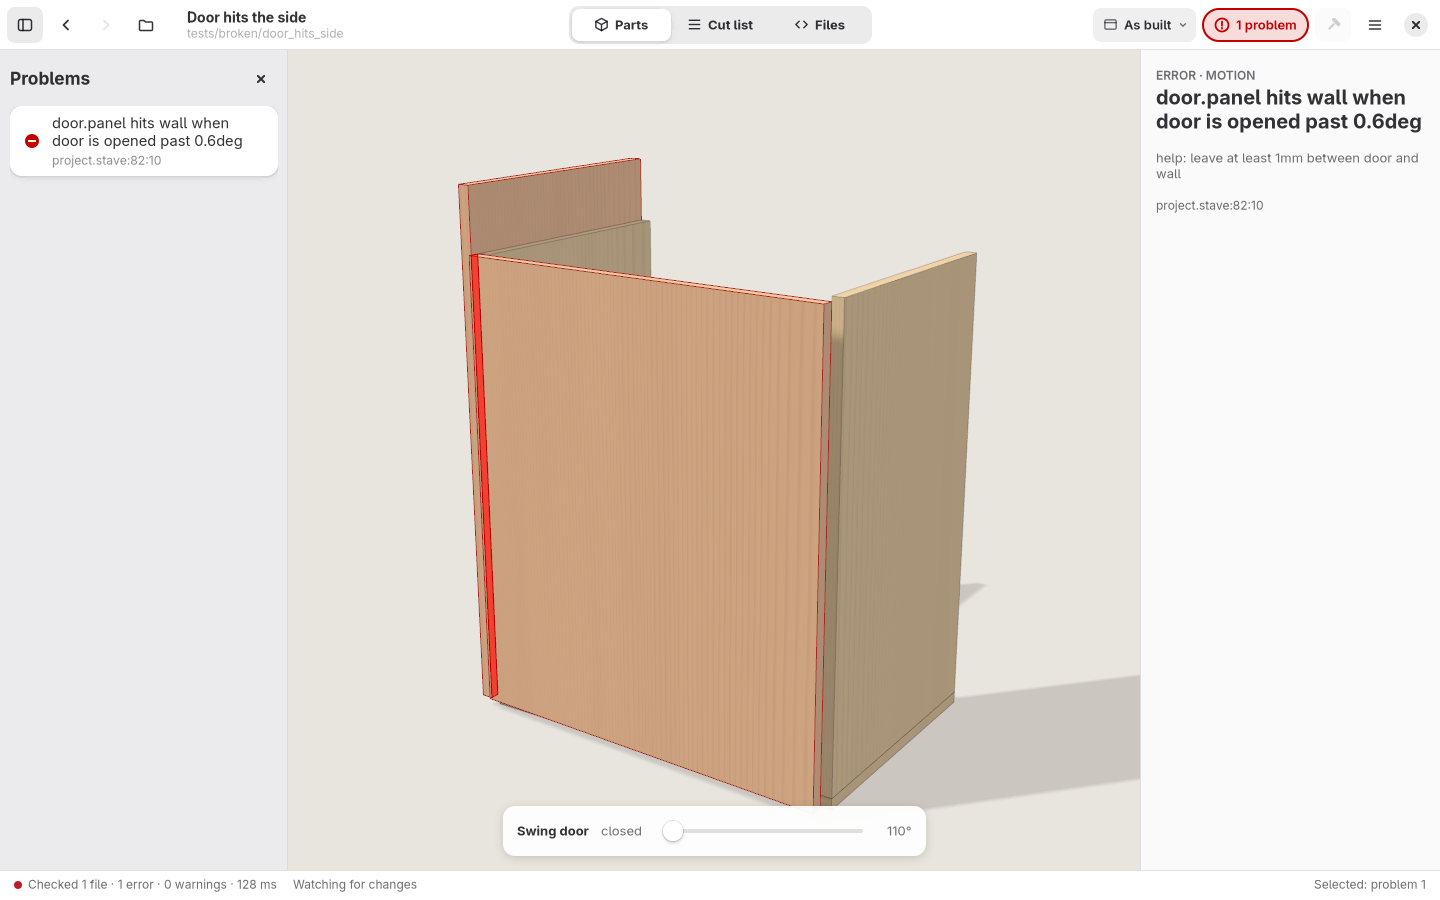
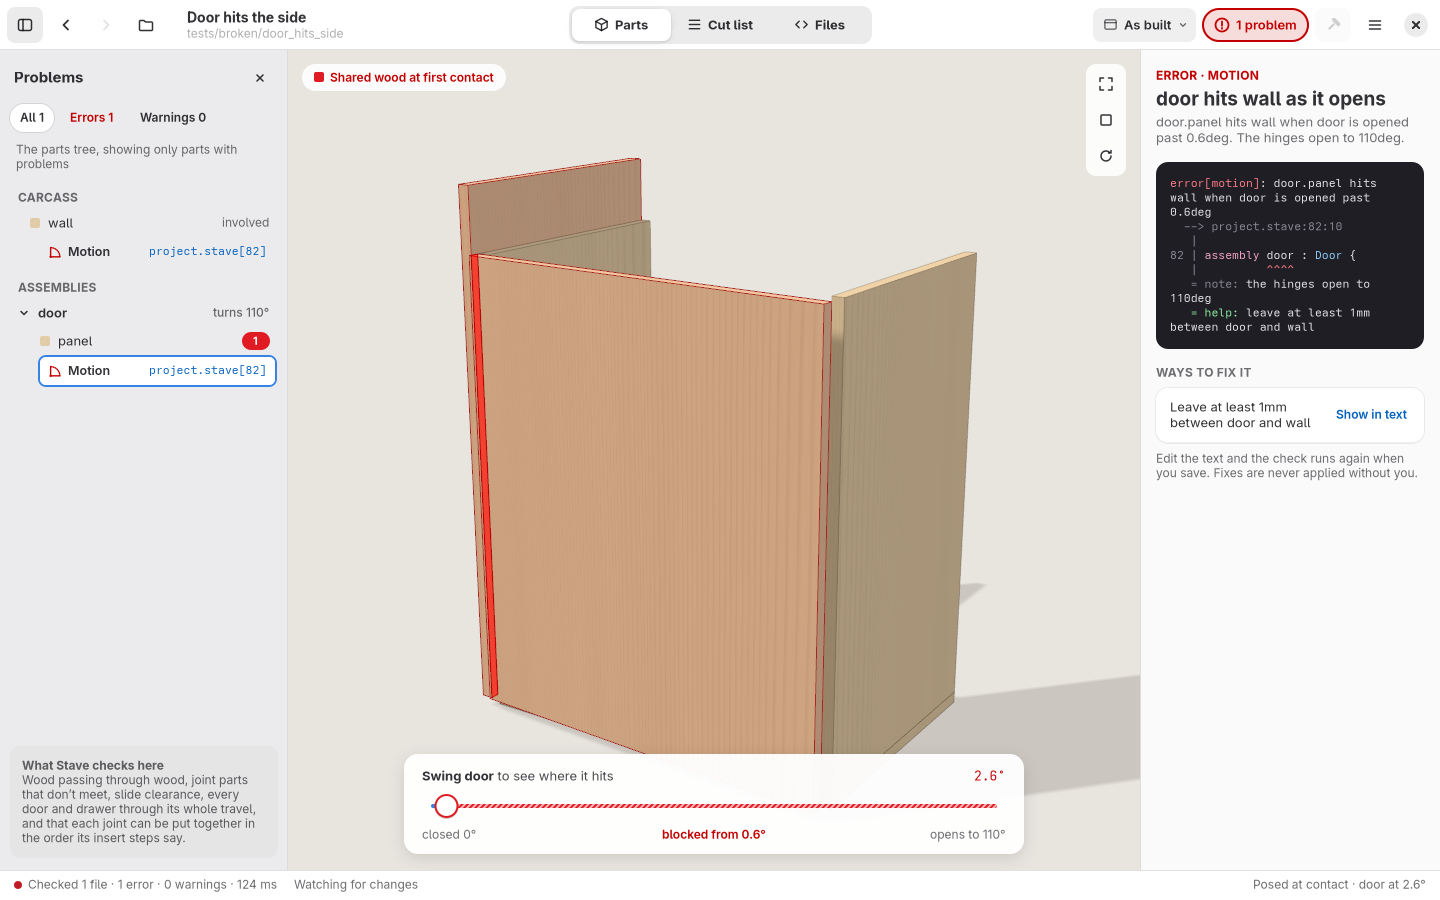
docs(gui): lane 3's controls, problems and focus layouts, with screenshots

diff --git a/docs/gui.md b/docs/gui.md
@@ -16,6 +16,10 @@ tools/window-shot main.png examples/clothing_cabinet --theme light --select 'doo
 tools/window-shot dark.png examples/clothing_cabinet --theme dark
 tools/window-shot busy.png tests/broken/door_hits_side --checking --problems
 tools/window-shot narrow.png examples/clothing_cabinet --size 760x900
+tools/window-shot apart.png examples/clothing_cabinet --explode 1
+tools/window-shot problem.png tests/broken/door_hits_side --problems --diagnostic 0
+tools/window-shot joint.png examples/stool --focus rung_sockets --step 0.6
+tools/window-shot hinge.png examples/clothing_cabinet --focus 'door_l.hinges[upper]' --plan
 ```
 
 It starts a private Broadway display server (`gtk4-broadwayd`, part of
@@ -31,7 +35,8 @@ Set `STAVE_GTK` to use another binary (`CARGO_TARGET_DIR` is honoured).
 Window options (they work without `--window-screenshot` too): `--theme
 system|light|dark`, `--view parts|cut-list|files`, `--select NAME` (a
 part, piece of hardware or assembly), `--focus NAME` (a joint or a piece
-of hardware), `--diagnostic N` (select the Nth problem), `--problems` (open
+of hardware) with `--plan` (from above), `--in-3d` and `--step AMOUNT`
+(0 to 1), `--diagnostic N` (select the Nth problem), `--problems` (open
 the problems list), `--scene NAME`, `--explode AMOUNT`, `--size WxH`.
 Screenshot only: `--checking` holds a second check running (the pill's
 spinner), `--building` presses the build button and holds its check.
@@ -55,9 +60,13 @@ forwards what people do.
 | `stave-app` | `session` | The shared state and its commands and events (below). |
 | `stave-app` | `check` | One check as a value that crosses threads (`check::run`, `Checked`, `Outcome`), and the folder watcher with its debounce (`Watcher`, `RECHECK_DELAY` = 250 ms). |
 | `stave-app` | `inspect` | The parts tree (`parts_tree`, `PartsTree::filtered`) and the inspector's account of a selection (`inspect`), with the declaration it is written in, highlighted (`snippet`, `highlight`). |
-| `stave-app` | `focus`, `view` | Focus mode, problems as rows, posing at a contact (unchanged). |
+| `stave-app` | `problems` | The problems list (`tree(checked, Filter)`: the parts tree showing only parts with problems, one `ProblemRow` per `Category` with its places; involved parts; `elsewhere`) and a problem's `details` (eyebrow, plain title, the `stave check` text, `Fix`es, the `MotionCard`). |
+| `stave-app` | `focus`, `view` | Focus mode (its insert text with `steps`, `link` and `location`; `receives`), problems as rows, posing at a contact. |
 | `stave-gtk` | `ui/mod.rs` | The window: owns the `Session`, dispatches commands, redraws on events, runs checks on a worker thread, and keeps what only the 3D view needs (camera, renderer, focus mode's scrub, the "Open it" slider). |
-| `stave-gtk` | `ui/header.rs`, `tree.rs`, `inspector.rs`, `chrome.rs` | The title bar; the parts sidebar; the inspector; the status bar, motion bar, problems list and placeholder pages. |
+| `stave-gtk` | `ui/header.rs`, `tree.rs`, `inspector.rs`, `chrome.rs` | The title bar; the parts sidebar; the inspector (with a problem's details); the status bar, motion bar and placeholder pages. |
+| `stave-gtk` | `ui/problems.rs` | The Problems sidebar: filters and the problems tree. |
+| `stave-gtk` | `ui/view_tools.rs`, `slider.rs` | The 3D view's toolbar (Pull apart), camera buttons, the shared-wood key and focus mode's From above / In 3D switch; the design's slider (track, ring handle, a hatched blocked range). |
+| `stave-gtk` | `ui/focus_stage.rs`, `focus_panel.rs` | Focus mode in the 3D view's area (the step player, the caption, three small views, the swing card) and a problem's motion card; focus mode's side panel. |
 | `stave-gtk` | `ui/icons.rs`, `style.rs` | The design's icons drawn from SVG path data in the text colour; one stylesheet whose colours are all libadwaita's named colours (`@headerbar_bg_color`, `@sidebar_bg_color`, `@card_bg_color`, `@accent_bg_color`, `@success_color`, ...), so light and dark both come from it and follow the style manager the moment it changes; only the code block is dark in both. |
 
 ## The session contract
@@ -128,9 +137,10 @@ PDF doesn't exist yet, and the button says so honestly.
 ```
 ┌ title bar ── sidebar · back · forward · open · title ─ Parts|Cut list|Files ─ scene ▾ · pill · hammer · menu ┐
 │ ┌ sidebar ──────┐ ┌ 3D view ─────────────────────────────┐ ┌ inspector ─────┐ │
-│ │ Parts tree    │ │ [view-toolbar]        [camera-toolbar]│ │ details, focus │ │
-│ │  or problems  │ │                                       │ │ panel, or the  │ │
-│ │  list         │ │          motion bar ("Open it")       │ │ problem slot   │ │
+│ │ Parts tree    │ │ [Pull apart ▶ together—apart]  [fit]  │ │ details, focus │ │
+│ │  or problems  │ │                               [front] │ │ panel, or a    │ │
+│ │  tree         │ │                               [turn]  │ │ problem's      │ │
+│ │               │ │  motion bar / motion card / steps     │ │ details        │ │
 │ └───────────────┘ └───────────────────────────────────────┘ └────────────────┘ │
 └ status bar ── ● Checked 5 files · 0 errors · 0 warnings · 26 ms   Watching for changes   Selected: … ┘
 ```
@@ -158,31 +168,97 @@ PDF doesn't exist yet, and the button says so honestly.
   leaves focus or clears the selection. The backdrop follows the style
   (#e8e5df light, #242428 dark, chosen when each frame is drawn and
   redrawn when the style changes). The floating motion bar opens the
-  selection's door or drawer, or swings a selected problem's motion.
+  selection's door or drawer (a problem has its own motion card).
 - **Narrow windows**: below 1100 sp the parts sidebar folds away (the
   sidebar button shows it over the view); below 860 sp the inspector
   does too (it slides in while something is selected), the switcher and
   scene menu drop their words and the subtitle goes; below 600 sp the
   title, the open button and forward go too.
 
+## The 3D view's controls
+
+- **View toolbar** (top left, `ViewToolbar`): "Pull apart" is a toggle;
+  on, it sets `Command::SetExplode(1)` and grows a play button and the
+  "together … apart" slider (`Slider`, 12 px handle, thin ring); the
+  slider sends `SetExplode`; play runs the amount from 0 to 1 in 3 s on
+  the frame clock. `Event::ExplodeChanged` reposes (staged: assemblies
+  first, then parts) and redraws the toolbar; the toggle stays on at 0
+  until it is switched off. The status bar says "Pulled apart · 60%" while
+  nothing is selected. Hidden in focus mode and while a problem is posed.
+- **Camera buttons** (top right, `CameraToolbar`): fit is `win.frame`
+  (the selection, or everything); front looks from the front, a little
+  above, framing everything; turn swings the view half way round.
+
+## Problems
+
+- **The sidebar** (`ProblemsSidebar`, Problems.dc.html) opens with the
+  pill, Ctrl+E or `--problems`; from another view `win.problems` goes to
+  the Parts view first. Its filters (All / Errors / Warnings with counts)
+  and rows come from `stave_app::problems::tree(latest, filter)`; the
+  carcass and then the assemblies, each part with a problem showing a
+  badge (how many problems are about it, red for errors, amber for
+  warnings) or "involved", and under it one row per kind: the
+  category's icon (line icons in `icons.rs`: the door-swing plan symbol
+  for motion, two boxes sharing a corner for overlap, two apart for no
+  contact, a drawer between sides for a slide gap, two arrows for order,
+  ...), the title with its count when more than one, and the places in
+  monospace; the full messages are its tooltip. Choosing a row selects
+  its first problem (`Selection::Problem`); the row under the part it is
+  about is ringed.
+- **The details** (`Inspector::show_problem(&Details)`): the eyebrow in
+  the severity's colour, the plain title and what happened, the text
+  exactly as `stave check .` prints it in the dark code block (coloured
+  by line: code, arrows, the source line highlighted, carets, `help:`),
+  "Ways to fix it" (the help line split at "or"), each with "Show in
+  text" (`Command::GoToSource` to the problem's line), and the note that
+  fixes are never applied without you.
+- **Posed at contact**: a problem with a contact is posed and tinted with
+  its shared wood (unchanged), framed, with the "Shared wood at first
+  contact" key in the view toolbar's place; a motion gets the motion card
+  (`ProblemCard`): "Swing door to see where it hits", the slider from 0
+  to fully open with the blocked range hatched red from the contact (its
+  handle ringed red past it), "closed 0°", "blocked from 0.6°", "opens to
+  110°". The status bar says "Posed at contact · door at 2.6°".
+
+## Focus mode
+
+Focus mode keeps its state in the window (`FocusState`: progress,
+options, from above, playing) and lays the 3D view's area out by kind
+(`layout_for_focus`); the side panel is the inspector's `focus` page.
+
+- **A joint** (JointFocus.dc.html): the step player floats at the bottom
+  of the view (`StepCard`): play (pauses while playing), "**Step 1 of 1** ·
+  `push(rung[front], along: length)`", "rung[front] is 6 mm from home",
+  and the apart … together scrub. The side panel: JOINT, the kind's name
+  and the first sentence of its doc comment; Goes in / Receives it / the
+  cut / Fit (green when it fits); SHOW with X-ray ("see into
+  leg[front_left]"), Tint cut faces and Fade other parts; HOW IT GOES
+  TOGETHER with the link to the kind (`std:joinery/socket`, to its line)
+  and its `insert:` steps one a line.
+- **Hardware** (Hinge.dc.html): the area becomes a page (`.stave-stage.page`):
+  a line saying what the view looks at ("**Looking down** on the hinge,
+  through the cabinet top · back ↑ · front ↓", or "In 3D around ..."), the
+  view in a rounded frame with the From above / In 3D switch at its top
+  right (`PlanSwitch`; only when focus has a view from above), the
+  members' numbers drawn on it, three small views rendered offscreen at
+  fixed angles (closed, 45°, fully open; the nearest is ringed, a click
+  goes there), and the swing card (`SwingCard`: play, the door's name,
+  the slider and "44°"). The side panel: HARDWARE, "How a cup hinge
+  works" and the kind's doc comment, its documented members numbered as
+  on the drawing, and Opens to / Closest to the side / Closest to
+  anything / Swing check.
+- Leaving (Esc, the panel's close button, Back) puts the Parts view's
+  layout back.
+
 ## Slots for the next lanes
 
-- **Lane 2, the 3D view's toolbar**: two empty, hidden `gtk::Box`es are
-  overlaid on the view, named `view-toolbar` (top left: Pull apart and its
-  slider, Exploded.dc.html) and `camera-toolbar` (top right: fit, front,
-  turn). The explode amount is `Session::explode` (`Command::SetExplode`,
-  `Event::ExplodeChanged` reposes); fitting is the window's `win.frame`
-  action.
 - **Lane 2, the Files view**: the `files` page of the view stack
   (`chrome::FilesPage`, a placeholder) is replaced by the editor. It shows
   `Selection::Location` when `Event::ViewChanged` or
   `Event::SelectionChanged` arrives, and selects with `Command::Select` or
-  `Command::GoToSource`; back and forward already walk through it.
-- **Lane 3, problems**: the pill already toggles `Sidebar::Problems`; the
-  sidebar's `problems` page (`chrome::ProblemsList`, a plain list) is
-  replaced by the problems tree and filters (Problems.dc.html), selecting
-  with `Selection::Problem`. A selected problem with a contact is posed
-  and tinted already, and the motion bar swings it; the inspector's
-  `problem` page (`Inspector::show_problem`, message and help only) is
-  replaced by the problem's details and ways to fix it.
+  `Command::GoToSource`; back and forward already walk through it. "Show
+  in text" in a problem's details and the joint kind's link in focus mode
+  send `GoToSource` (the kind's link may name a `std/...` file).
+- **Pulled apart panel**: Exploded.dc.html's side panel ("How it comes
+  apart", the staged moves in words) isn't built.
 - **Cut list**: the `cut-list` page is a "Cut list is coming" status page.

diff --git a/docs/STATUS.md b/docs/STATUS.md
@@ -98,16 +98,30 @@ the system or the main menu, the 3D backdrop with them.
   Files view, whose editor isn't built yet).
 - **Build button**: checks, then says "The build plan (PDF) isn't built
   yet"; disabled while the design has errors.
-- **Problems**: the list (opened by the pill) shows every diagnostic.
-  Choosing one the checks can show poses the design where it happens (its
-  scene, and a door or drawer stopped just past where it hits), tints the
-  parts red and draws the shared wood as translucent red boxes; the motion
-  bar swings a motion from closed to fully open.
+- **Problems**: the pill (or Ctrl+E, from any view) opens the Problems
+  sidebar: All / Errors / Warnings filters with their counts and the parts
+  tree showing only the parts with problems, each kind of problem one
+  compact row with its icon (`Motion`, `Overlap (2)`, `No contact`...) and
+  where it is written (`project.stave[82]`); the parts a problem only
+  involves (the wall a door hits) carry the same row, marked "involved";
+  problems not about a part (a misspelt name) come after the tree.
+  Choosing a row poses the design where it happens (its scene, and a door
+  or drawer stopped just past where it hits), tints the parts red and
+  draws the shared wood as translucent red boxes, with a "Shared wood at
+  first contact" key. The inspector gives the problem's details: "ERROR ·
+  MOTION", a plain title ("door hits wall as it opens"), the text exactly
+  as `stave check .` prints it (highlighted), the ways to fix it from its
+  help line, each with "Show in text", and that fixes are never applied
+  automatically. A door or drawer that hits something gets a motion card
+  ("Swing door to see where it hits") whose slider hatches the blocked
+  range red from the contact angle.
 - **Exploded views**: scenes with `explode: true` start apart (`--explode`
   sets any amount). The first half of the range moves each assembly out
   whole (drawers forward, doors off their hinges), the second pulls parts
-  apart along the reverse of their joints' last insert step. The view's
-  own "Pull apart" control is the next GUI lane's (`docs/gui.md`).
+  apart along the reverse of their joints' last insert step. The 3D
+  view's toolbar has "Pull apart": on, it grows a play button and a
+  "together … apart" slider. The camera buttons fit the view, look at
+  the front and turn to the back.
 - **Cup hinges** are drawn as their mechanism: the steel cup with its
   rim and boss pins in the door, the plate, arm and arm pins on the side,
   and the two links, which turn about their arm pins as the door opens.
@@ -123,7 +137,14 @@ the system or the main menu, the 3D backdrop with them.
   darker, so the joinery reads at a glance.
 - **Focus mode**: selecting a part offers "See how it goes together" for
   each joint pair it is in; selecting hardware offers "See how it works".
-  Everything else fades to a ghost and the item is framed.
+  Everything else fades to a ghost and the item is framed. The window
+  lays focus out as the canvas's JointFocus and Hinge designs: a joint's
+  step player floats over the view and its side panel gives the joint,
+  the toggles and its insert steps with a link to the kind
+  (`std:joinery/socket`); hardware gets a page with a line saying what the
+  view looks at, a From above / In 3D switch, three small views at fixed
+  angles (click one to go there) and the swing card, and its side panel
+  "How a cup hinge works" with its numbered members.
   - A **joint** plays its own `insert:` steps (the steps the assembly
     check runs backwards) with a play button and a scrub slider from apart
     to together; the part that receives it is drawn see-through (X-ray,
@@ -190,7 +211,8 @@ the system or the main menu, the 3D backdrop with them.
 - **The real window, without a screen**: `tools/window-shot OUT.png
   FOLDER [options]` runs the viewer on a private GTK Broadway server and
   the window draws itself into the PNG (`--theme`, `--size`, `--select`,
-  `--focus`, `--diagnostic`, `--problems`, `--view`, `--checking`). See
+  `--focus` with `--plan`, `--in-3d` and `--step`, `--diagnostic`,
+  `--problems`, `--explode`, `--view`, `--checking`). See
   `docs/screenshots/window/`.
 
 What the window shows is worked out in `stave-app` (the session, the
@@ -199,12 +221,11 @@ through the window itself is not automated.
 
 ## Not done yet
 
-- **Window**: the Files view (the editor), the problems tree with its
-  filters and the problem details, the 3D view's own toolbar (Pull apart
-  and its slider, fit, front, turn) and the Cut list view are placeholders
-  with their slots ready (`docs/gui.md`); focus mode keeps its earlier
-  panel in the inspector rather than the canvas's JointFocus and Hinge
-  layouts.
+- **Window**: the Files view (the editor) and the Cut list view are
+  placeholders with their slots ready (`docs/gui.md`). The Pulled apart
+  side panel ("How it comes apart", Exploded.dc.html) isn't built; a
+  problem's ways to fix it are its help line split at "or", and "Show in
+  text" goes to the problem's own line, not to each fix's.
 - **Build plan and cut list**: `stave build`, the work plan (recipes,
   order of operations, tool settings), the PDF and the CSV cut list
   (stave-workplan, stave-output) are not written yet; neither is layer 7's
